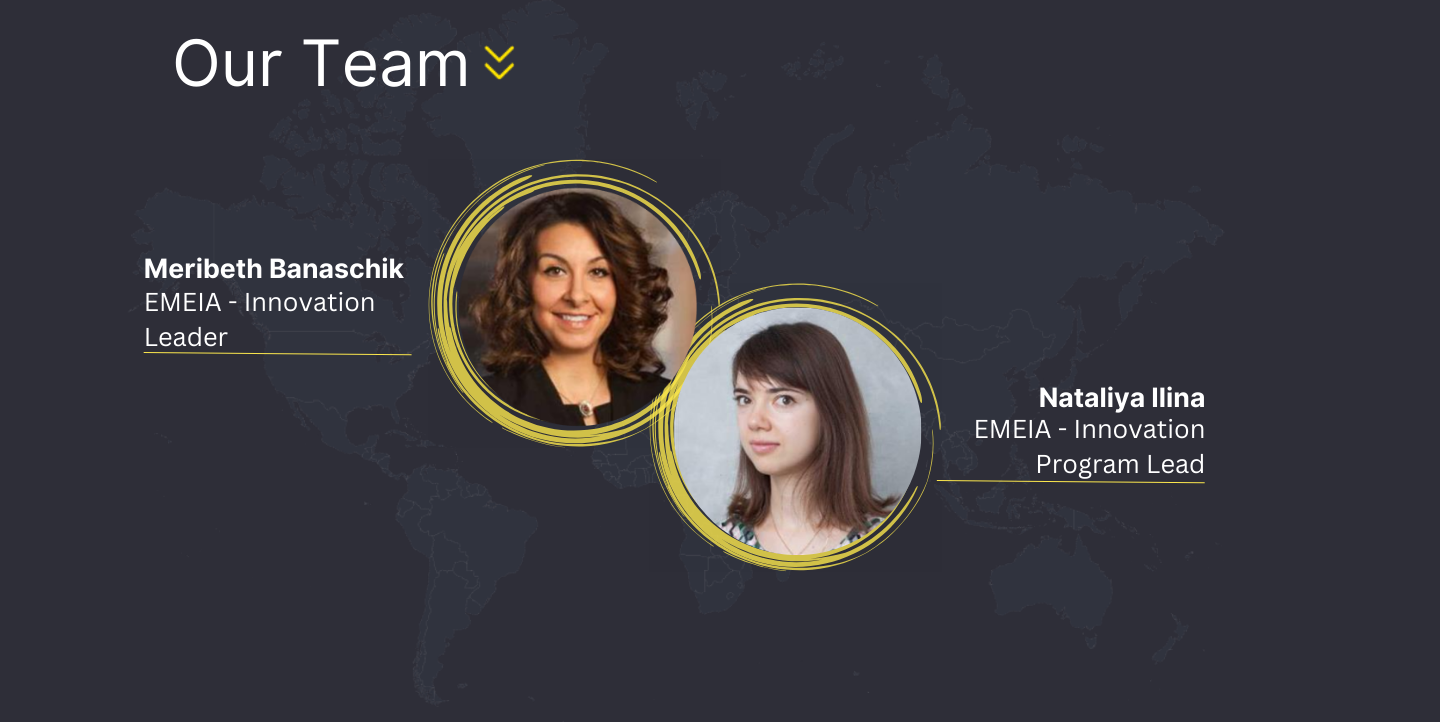
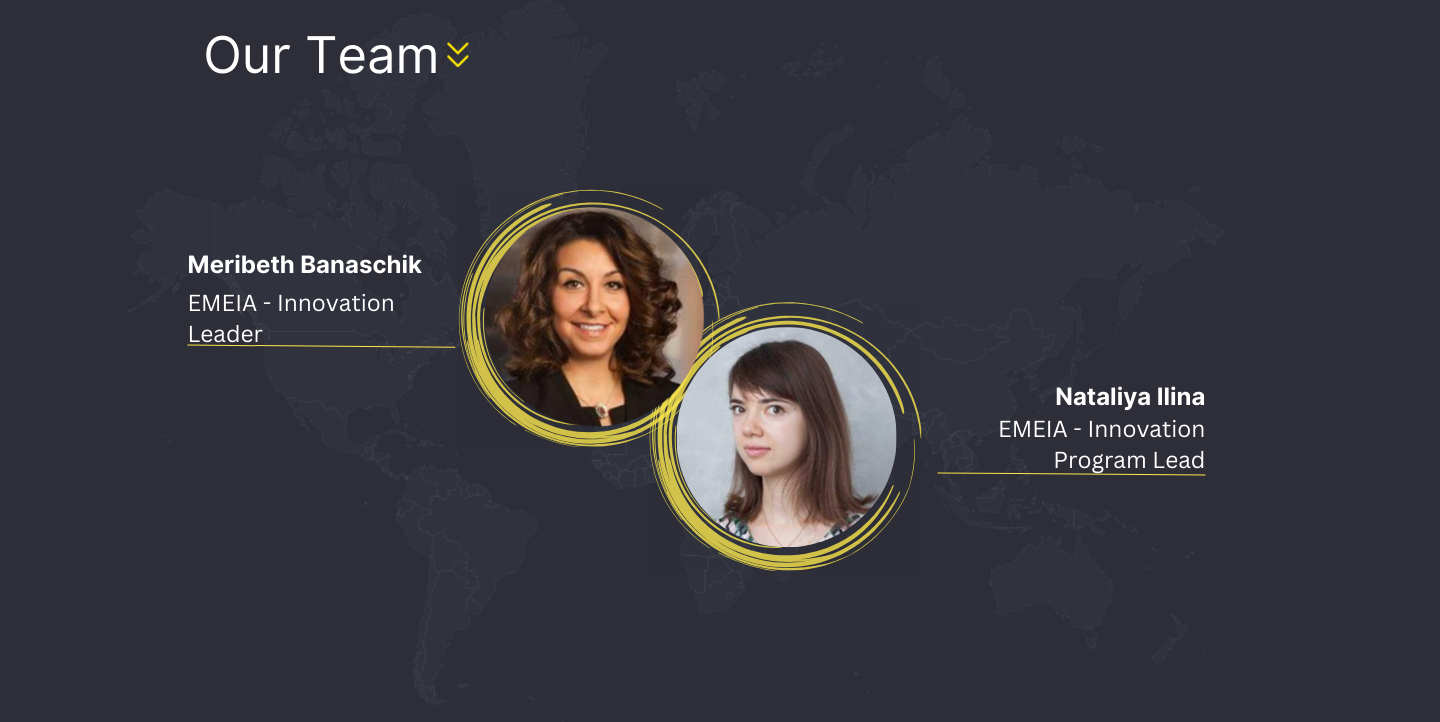
team-process-region component build

Changed region(s): [[0.0938, 0.2133, 0.8438, 0.7922], [0.125, 0.0305, 0.375, 0.1219]]

diff --git a/src/index.css b/src/index.css
@@ -169,7 +169,7 @@ line-height: 20px;
     justify-content: space-between;
     align-items: center;
     margin-bottom: 20px;
-    font-size: 28px;
+    font-size: 2em;
     color:white;
     font-family: EYInterstate; 
 
@@ -182,7 +182,7 @@ line-height: 20px;
 }
   .leader-header h1 {
     margin: 0;
-    font-size: 48px;
+    font-size: 2em;
     color: white;
   }
   
@@ -277,15 +277,15 @@ line-height: 20px;
     background-color: #2E2E38;
     color: white;
     padding: 20px;
-  }
-  
-  .regions-header-container {
+    margin-bottom: -30px;
+  }  
+  .header-container {
     display: flex;
     align-items: center;
     position: relative;
   }
   
-  .regions-header-container .line {
+  .header-container .line {
     flex-grow: 1;
     height: 2px;
     background-color: #747480;
@@ -293,53 +293,33 @@ line-height: 20px;
   }
   
   .regions h1 {
-    color: #FBE74D;
+    color: #FFE600;
     font-size: 48px;
     margin: 0;
     font-weight: bold;
+    margin-bottom: 20px;
   }
   
-  .regions-line {
-    flex-grow: 1;
-    height: 2px;
+  .line {
+    height: 1px;
     background-color: #747480;
-    margin-left: 10px;
   }
   
-  .regions-above-header {
-    margin-bottom: 10px;
+  .above-header {
+    margin-bottom: 20px;
   }
   
   .region-section {
     display: flex;
     align-items: center;
-    margin-bottom: 40px;
-  }
-  
-  
-  .region-section.left-image .image-container {
-    order: 1;
-  }
-  
-  .region-section.left-image .text-container {
-    order: 2;
-    text-align: left;
-  }
-  
-  .region-section.right-image .image-container {
-    order: 2;
-  }
-  
-  .region-section.right-image .text-container {
-    order: 1;
-    text-align: left;
+    margin-bottom: 20px;
   }
   
   .regions-image-container {
     width: 200px; 
     height: 200px; 
     background-color: #2E2E38;
-    border: 1px solid #FBE74D;  ;
+    border: 1px solid #FFE600;
     border-radius: 50%; 
     display: flex;
     justify-content: center;
@@ -388,8 +368,6 @@ line-height: 20px;
   .regions-text-container .paragraph-2 {
     font-size: 1.2em;
     margin: 20px 0;
-    font-weight: bold;
-    position: right;
   }
   
   .regions-text-container .button {
@@ -401,6 +379,78 @@ line-height: 20px;
     border-radius: 5px;
   }
   
+  
+  .process {
+    color: white;
+  }
+  
+  .process-header-container {
+    margin-bottom: 20px;
+    text-align: left;
+    padding-left: 20px;
+    font-family: EYInterstate;
+  }
+  
+  .process-heading {
+    font-size: 2em;
+    
+  }
+
+  .process-line {
+    flex-grow: 1;
+    height: 2px;
+    background-color: #747480;
+    margin-left: 10px;
+  }
+  
+  .process-highlight {
+    color: #FFE600;
+  }
+  
+  .process-image-wrapper {
+    position: relative;
+    width: 100%;
+    max-width: 680px;
+    margin: 0 auto;
+    padding: 10px;
+    background-color: black;
+    border: 1px solid #FFE600;
+    border-radius: 15px;
+    display: flex;
+    justify-content: center;
+    align-items: center;
+  }
+  
+  .process-image-container {
+    position: relative;
+    width: 100%;
+  }
+  
+  .process-image {
+    width: 100%;
+    height: auto;
+  }
+  
+  .process-overlay-text {
+    position: absolute;
+    font-family: EYInterstate;
+    font-size: 24px;
+    top: 50%;
+    left: 50%;
+    transform: translate(-50%, -50%);
+    color: white;
+  }
+  
+  .process-cta-button {
+    display: inline-block;
+    margin-top: 10px;
+    padding: 10px 20px;
+    background-color: #FFE600;
+    color: black;
+    text-decoration: none;
+    font-weight: regular;
+    border-radius: 2px;
+  }
 
 .gallery-component {
   display: flex;

diff --git a/src/components/Regions.tsx b/src/components/Regions.tsx
@@ -1,18 +1,9 @@
-import * as React from 'react';
+import React from 'react';
 
-interface Section {
-    header: string;
-    imageUrl: string;
-    paragraph_1: string;
-    paragraph_2: string;
-    buttonText: string;
-    buttonHref: string;
-}
-
-const sections: Section[] = [
+const sections = [
     {
         header: "EMEIA FSO",
-        imageUrl: "https://sites.ey.com/:i:/r/sites/EMEIA_Innovation_site/Images1/USA,%20New%20York,%20New%20York%20City,%20Five%20young%20women%20standing%20by%20white%20wall%20with%20makeshift%20charts,%20talking%20-%20Original%201.png?csf=1&web=1&e=aiSH2G",
+        imageUrl: "https://i.ibb.co/0sCZ90P/Meribeth.png",
         paragraph_1: "Innovation",
         paragraph_2: "Designed to help apply innovation to our offerings, supporting EY to future-proof, stay relevant and be competitive.",
         buttonText: "Click Here to Explore",
@@ -20,7 +11,7 @@ const sections: Section[] = [
     },
     {
         header: "Europe West",
-        imageUrl: "https://sites.ey.com/:i:/r/sites/EMEIA_Innovation_site/Images1/Couple%20Looking%20at%20Large%20Scale%20Projected%20Image%20of%20Space%20-%20Original%201.png?csf=1&web=1&e=tmeR0c",
+        imageUrl: "https://i.ibb.co/0sCZ90P/Meribeth.png",
         paragraph_1: "Innovation Team",
         paragraph_2: "Multidisciplinary and multicultural team which breathes innovation and works across all geographies, Service Lines and sectors to develop new technologies, strategies and solutions that can better position EY and our clients for the future.",
         buttonText: "Click here to Explore",
@@ -28,15 +19,16 @@ const sections: Section[] = [
     }
 ];
 
-const Regions: React.FC = () => {
+const Regions = () => {
     return (
         <div className="regions">
-            <div className="regions-header-container">
+            <div className="header-container">
                 <h1>Regions</h1>
-                <div className="regions-line"></div>
+                <div className="line regions-line"></div>
             </div>
             {sections.map((section, index) => (
                 <div key={index} className={`region-section ${index % 2 === 0 ? 'left-image' : 'right-image'}`}>
+                    <div className="regions-line above-header"></div>
                     <div className="regions-image-container">
                         <img src={section.imageUrl} alt={section.header} />
                     </div>
@@ -46,7 +38,7 @@ const Regions: React.FC = () => {
                             <p className="regions-paragraph-1">{section.paragraph_1}</p>
                         </div>
                         <p className="regions-paragraph-2">{section.paragraph_2}</p>
-                        <a href={section.buttonHref} className="regions-button">{section.buttonText}</a>
+                        <a href={section.buttonHref} className="button">{section.buttonText}</a>
                     </div>
                 </div>
             ))}

diff --git a/src/components/Process.tsx b/src/components/Process.tsx
@@ -6,28 +6,27 @@ const Funding: React.FC = () => {
       <div className="process-header-container">
         <h1 className="process-heading">
           Global <span className="process-highlight">Innovation</span> Funding Process Overview
-          </h1>
+        </h1>
         <div className="process-line"></div>
       </div>
 
-      <div className="process-video-wrapper">
-        <video
-          className="process-video"
-          src="https://sites.ey.com/:v:/r/sites/EMEIA_Innovation_site/Images1/EMEIA%20Innovation_Move%20away%20from%20PPTs%2013May2024.mp4?csf=1&web=1&e=KEJ2uN"
-          autoPlay
-          loop
-          muted
-          controls
-        ></video>
-        <div className="process-overlay-text">
-          <p>
-            Looking for <span className="process-highlight">funding</span> for your
-            <p>innovation project?</p>
-            <div className="process-line"></div>
-          </p>
-          <a href="https://www.your-link.com" className="process-cta-button">
-            Click Here to Know More
-          </a>
+      <div className="process-image-wrapper">
+        <div className="process-image-container">
+          <img
+            className="process-image"
+            src='../src/assets/Process.png'
+            alt="Process"
+          />
+          <div className="process-overlay-text">
+            <p>
+              Looking for <span className="process-highlight">funding</span> for your
+              <p>innovation project?</p>
+              <div className="process-line"></div>
+            </p>
+            <a href="https://www.your-link.com" className="process-cta-button">
+              Click Here to Know More
+            </a>
+          </div>
         </div>
       </div>
     </div>

diff --git a/src/components/OurTeam.tsx b/src/components/OurTeam.tsx
@@ -26,7 +26,7 @@ const OurTeam: React.FC = () => {
             <img 
                 src={isMobile ? teamMobileImage : teamImage} 
                 alt="Team" 
-                style={{ width: '100%', height: '1000px', objectFit: 'cover' }} 
+                style={{ width: '100%', height: '800px', objectFit: 'cover', objectPosition: 'center' }} 
             />
         </div>
     );
